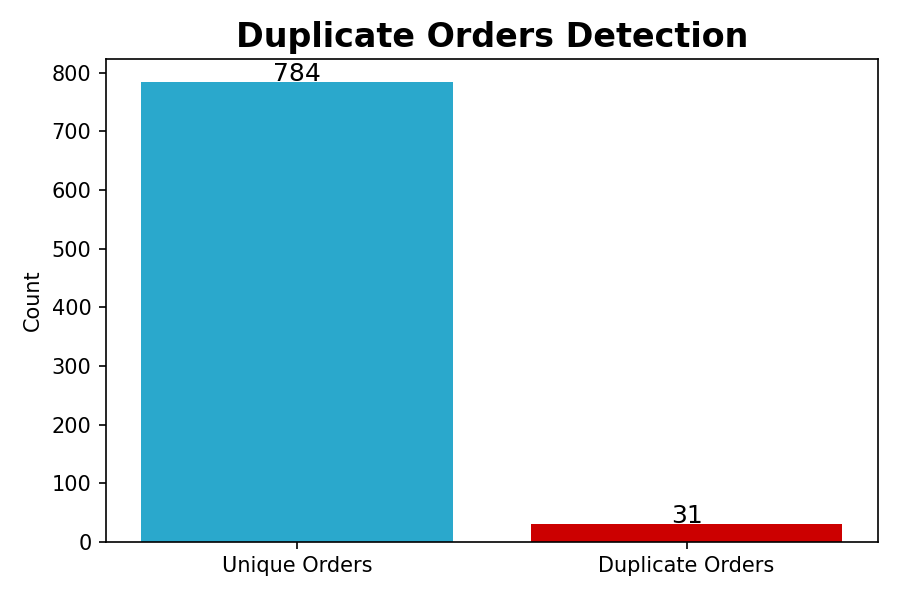
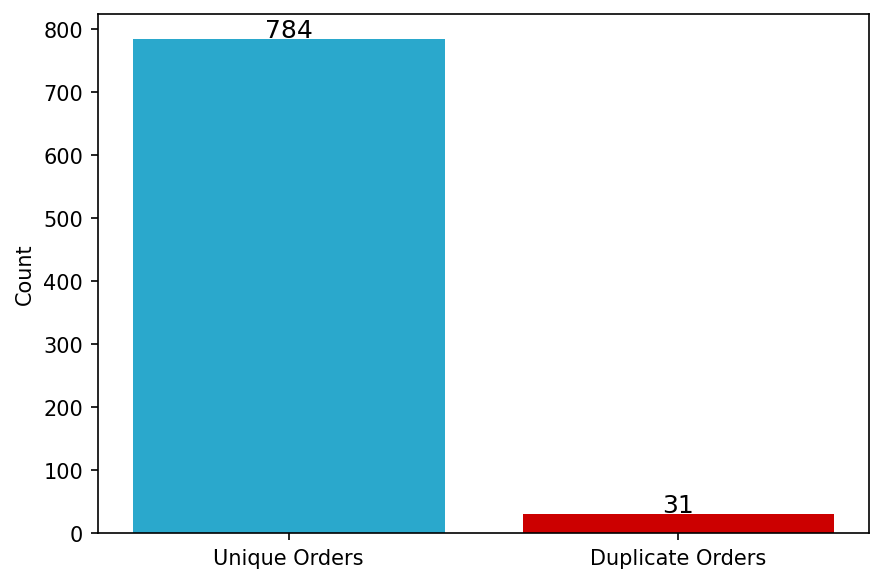
main.py optimalizovane obrazky v kazdej funkcii - odstraneny nadpis z obrazkov - odstraneny white border z obrazkov - fix velkost grafov pre web - zakomentovany riadok na vyrobu legendy do obrazku 18, riesenie cez html

Changed region(s): [[0.0, 0.0, 0.9774, 0.988], [0.0305, 0.0309, 0.1222, 0.0617]]

diff --git a/main.py b/main.py
@@ -29,272 +29,273 @@ print(f"✓ Found {len(dupes)} duplicate orders")
 dupes.to_csv("cleaned_data/01_duplicates.csv", index=False)
 fig, ax = plt.subplots(figsize=(6, 4))
 ax.bar(["Unique Orders", "Duplicate Orders"], [len(orders) - len(dupes), len(dupes)], color=["#2aa8cc", "#cc0000"])
-ax.set_title("Duplicate Orders Detection", fontsize=16, fontweight="bold")
+# ax.set_title("Duplicate Orders Detection", fontsize=16, fontweight="bold")
 ax.set_ylabel("Count")
 for i, val in enumerate([len(orders) - len(dupes), len(dupes)]):
     ax.text(i, val + 2, str(val), ha="center", fontsize=12)
 plt.tight_layout()
-plt.savefig("cleaned_data/01_duplicates.png", dpi=150)
+plt.savefig("cleaned_data/01_duplicates.png", dpi=150, bbox_inches="tight")
 plt.close()
 df = df.drop_duplicates(subset=["date", "product_id", "country_id", "revenue"])
 print("✓ 01_duplicates.png")
 
 # === 2. REVENUE BY COUNTRY ===
 rev_country = df.groupby("country_name")["revenue"].sum().sort_values(ascending=True)
-fig, ax = plt.subplots(figsize=(10, 6))
+fig, ax = plt.subplots(figsize=(9, 5))
 bars = ax.barh(rev_country.index, rev_country.values, color="#2aa8cc")
-ax.set_title("Revenue by Country", fontsize=16, fontweight="bold")
+# # ax.set_title("Revenue by Country", fontsize=16, fontweight="bold")
 ax.set_xlabel("Total Revenue (EUR)")
 for bar, val in zip(bars, rev_country.values):
     ax.text(val + 500, bar.get_y() + bar.get_height()/2, f"€{val:,.0f}", va="center", fontsize=9)
 plt.tight_layout()
-plt.savefig("cleaned_data/02_revenue_by_country.png", dpi=150)
+plt.savefig("cleaned_data/02_revenue_by_country.png", dpi=150, bbox_inches="tight")
 plt.close()
 print("✓ 02_revenue_by_country.png")
 
 # === 3. TOP PRODUCTS ===
 top_products = df.groupby("name")["revenue"].sum().sort_values(ascending=False).head(10)
-fig, ax = plt.subplots(figsize=(12, 6))
+fig, ax = plt.subplots(figsize=(10, 5))
 bars = ax.bar(range(len(top_products)), top_products.values, color="#0d3b47")
 ax.set_xticks(range(len(top_products)))
 ax.set_xticklabels(top_products.index, rotation=30, ha="right", fontsize=9)
-ax.set_title("Top 10 Products by Revenue", fontsize=16, fontweight="bold")
+# ax.set_title("Top 10 Products by Revenue", fontsize=16, fontweight="bold")
 ax.set_ylabel("Total Revenue (EUR)")
 for bar, val in zip(bars, top_products.values):
     ax.text(bar.get_x() + bar.get_width()/2, bar.get_height() + 200, f"€{val:,.0f}", ha="center", fontsize=8)
 plt.tight_layout()
-plt.savefig("cleaned_data/03_top_products.png", dpi=150)
+plt.savefig("cleaned_data/03_top_products.png", dpi=150, bbox_inches="tight")
 plt.close()
 print("✓ 03_top_products.png")
 
 # === 4. LOW MARGIN PRODUCTS ===
 low_margin = df.groupby("name")["margin_pct"].mean().sort_values().head(10)
-fig, ax = plt.subplots(figsize=(12, 6))
+fig, ax = plt.subplots(figsize=(10, 5))
 bars = ax.bar(range(len(low_margin)), low_margin.values, color="#cc0000")
 ax.set_xticks(range(len(low_margin)))
 ax.set_xticklabels(low_margin.index, rotation=30, ha="right", fontsize=9)
-ax.set_title("Low Margin Products (Bottom 10)", fontsize=16, fontweight="bold")
+# ax.set_title("Low Margin Products (Bottom 10)", fontsize=16, fontweight="bold")
 ax.set_ylabel("Average Margin (%)")
 ax.axhline(y=low_margin.mean(), color="black", linestyle="--", label="Average")
 for bar, val in zip(bars, low_margin.values):
     ax.text(bar.get_x() + bar.get_width()/2, bar.get_height() + 0.2, f"{val:.1f}%", ha="center", fontsize=8)
 plt.tight_layout()
-plt.savefig("cleaned_data/04_low_margin_products.png", dpi=150)
+plt.savefig("cleaned_data/04_low_margin_products.png", dpi=150, bbox_inches="tight")
 plt.close()
 print("✓ 04_low_margin_products.png")
 
 # === 5. RETURN RATE BY COUNTRY ===
 return_country = df.groupby("country_name")["returned"].mean() * 100
 return_country = return_country.sort_values(ascending=True)
-fig, ax = plt.subplots(figsize=(10, 6))
+fig, ax = plt.subplots(figsize=(9, 5))
 bars = ax.barh(return_country.index, return_country.values, color="#e67e22")
-ax.set_title("Return Rate by Country (%)", fontsize=16, fontweight="bold")
+# ax.set_title("Return Rate by Country (%)", fontsize=16, fontweight="bold")
 ax.set_xlabel("Return Rate (%)")
 ax.axvline(x=return_country.mean(), color="red", linestyle="--", label=f"Avg: {return_country.mean():.1f}%")
 ax.legend()
 for bar, val in zip(bars, return_country.values):
     ax.text(val + 0.1, bar.get_y() + bar.get_height()/2, f"{val:.1f}%", va="center", fontsize=9)
 plt.tight_layout()
-plt.savefig("cleaned_data/05_return_rate_by_country.png", dpi=150)
+plt.savefig("cleaned_data/05_return_rate_by_country.png", dpi=150, bbox_inches="tight")
 plt.close()
 print("✓ 05_return_rate_by_country.png")
 
 # === 6. RETURN RATE BY PRODUCT ===
 return_product = df.groupby("name")["returned"].mean() * 100
 return_product = return_product.sort_values(ascending=False).head(10)
-fig, ax = plt.subplots(figsize=(12, 6))
+fig, ax = plt.subplots(figsize=(10, 5))
 bars = ax.bar(range(len(return_product)), return_product.values, color="#e74c3c")
 ax.set_xticks(range(len(return_product)))
 ax.set_xticklabels(return_product.index, rotation=30, ha="right", fontsize=9)
-ax.set_title("Top 10 Products by Return Rate", fontsize=16, fontweight="bold")
+# ax.set_title("Top 10 Products by Return Rate", fontsize=16, fontweight="bold")
 ax.set_ylabel("Return Rate (%)")
 for bar, val in zip(bars, return_product.values):
     ax.text(bar.get_x() + bar.get_width()/2, bar.get_height() + 0.2, f"{val:.1f}%", ha="center", fontsize=8)
 plt.tight_layout()
-plt.savefig("cleaned_data/06_return_rate_by_product.png", dpi=150)
+plt.savefig("cleaned_data/06_return_rate_by_product.png", dpi=150, bbox_inches="tight")
 plt.close()
 print("✓ 06_return_rate_by_product.png")
 
 # === 7. MONTHLY TREND ===
 monthly = df.groupby("month")["revenue"].sum()
-fig, ax = plt.subplots(figsize=(12, 6))
+fig, ax = plt.subplots(figsize=(10, 5))
 ax.plot(monthly.index.astype(str), monthly.values, marker="o", color="#2aa8cc", linewidth=2, markersize=6)
 ax.fill_between(monthly.index.astype(str), monthly.values, alpha=0.2, color="#2aa8cc")
-ax.set_title("Monthly Revenue Trend 2024", fontsize=16, fontweight="bold")
+# ax.set_title("Monthly Revenue Trend 2024", fontsize=16, fontweight="bold")
 ax.set_ylabel("Revenue (EUR)")
 ax.set_xlabel("Month")
 plt.xticks(rotation=45)
 for i, val in enumerate(monthly.values):
     ax.text(i, val + 500, f"€{val:,.0f}", ha="center", fontsize=7)
 plt.tight_layout()
-plt.savefig("cleaned_data/07_monthly_trend.png", dpi=150)
+plt.savefig("cleaned_data/07_monthly_trend.png", dpi=150, bbox_inches="tight")
 plt.close()
 print("✓ 07_monthly_trend.png")
 
 # === 8. REVENUE BY MARKETPLACE ===
 rev_market = df.groupby("marketplace")["revenue"].sum().sort_values(ascending=False)
-fig, ax = plt.subplots(figsize=(8, 6))
+fig, ax = plt.subplots(figsize=(6, 5))
 colors = ["#FF9900", "#0057e7", "#00A650"]
 wedges, texts, autotexts = ax.pie(rev_market.values, labels=rev_market.index, autopct="%1.1f%%", colors=colors, startangle=90)
-ax.set_title("Revenue by Marketplace", fontsize=16, fontweight="bold")
+# ax.set_title("Revenue by Marketplace", fontsize=16, fontweight="bold")
 plt.tight_layout()
-plt.savefig("cleaned_data/08_revenue_by_marketplace.png", dpi=150)
+plt.savefig("cleaned_data/08_revenue_by_marketplace.png", dpi=150, bbox_inches="tight")
 plt.close()
 print("✓ 08_revenue_by_marketplace.png")
 
 # === 9. REVENUE BY CATEGORY ===
 rev_cat = df.groupby("category")["revenue"].sum().sort_values(ascending=True)
-fig, ax = plt.subplots(figsize=(10, 6))
+fig, ax = plt.subplots(figsize=(9, 5))
 bars = ax.barh(rev_cat.index, rev_cat.values, color="#1b4332")
-ax.set_title("Revenue by Category", fontsize=16, fontweight="bold")
+# ax.set_title("Revenue by Category", fontsize=16, fontweight="bold")
 ax.set_xlabel("Total Revenue (EUR)")
 for bar, val in zip(bars, rev_cat.values):
     ax.text(val + 200, bar.get_y() + bar.get_height()/2, f"€{val:,.0f}", va="center", fontsize=9)
 plt.tight_layout()
-plt.savefig("cleaned_data/09_revenue_by_category.png", dpi=150)
+plt.savefig("cleaned_data/09_revenue_by_category.png", dpi=150, bbox_inches="tight")
 plt.close()
 print("✓ 09_revenue_by_category.png")
 
 # === 10. MARGIN BY CATEGORY ===
 margin_cat = df.groupby("category")["margin_pct"].mean().sort_values(ascending=True)
-fig, ax = plt.subplots(figsize=(10, 6))
+fig, ax = plt.subplots(figsize=(9, 5))
 bars = ax.barh(margin_cat.index, margin_cat.values, color="#145d72")
-ax.set_title("Average Margin by Category (%)", fontsize=16, fontweight="bold")
+# ax.set_title("Average Margin by Category (%)", fontsize=16, fontweight="bold")
 ax.set_xlabel("Average Margin (%)")
 for bar, val in zip(bars, margin_cat.values):
     ax.text(val + 0.2, bar.get_y() + bar.get_height()/2, f"{val:.1f}%", va="center", fontsize=9)
 plt.tight_layout()
-plt.savefig("cleaned_data/10_margin_by_category.png", dpi=150)
+plt.savefig("cleaned_data/10_margin_by_category.png", dpi=150, bbox_inches="tight")
 plt.close()
 print("✓ 10_margin_by_category.png")
 
 # === 11. PROFIT BY COUNTRY ===
 profit_country = df.groupby("country_name")["profit"].sum().sort_values(ascending=True)
-fig, ax = plt.subplots(figsize=(10, 6))
+fig, ax = plt.subplots(figsize=(9, 5))
 bars = ax.barh(profit_country.index, profit_country.values, color="#0d3b47")
-ax.set_title("Profit by Country", fontsize=16, fontweight="bold")
+# ax.set_title("Profit by Country", fontsize=16, fontweight="bold")
 ax.set_xlabel("Total Profit (EUR)")
 for bar, val in zip(bars, profit_country.values):
     ax.text(val + 100, bar.get_y() + bar.get_height()/2, f"€{val:,.0f}", va="center", fontsize=9)
 plt.tight_layout()
-plt.savefig("cleaned_data/11_profit_by_country.png", dpi=150)
+plt.savefig("cleaned_data/11_profit_by_country.png", dpi=150, bbox_inches="tight")
 plt.close()
 print("✓ 11_profit_by_country.png")
 
 # === 12. AVG ORDER VALUE BY COUNTRY ===
 aov_country = df.groupby("country_name")["revenue"].mean().sort_values(ascending=True)
-fig, ax = plt.subplots(figsize=(10, 6))
+fig, ax = plt.subplots(figsize=(9, 5))
 bars = ax.barh(aov_country.index, aov_country.values, color="#2c7873")
-ax.set_title("Average Order Value by Country", fontsize=16, fontweight="bold")
+# ax.set_title("Average Order Value by Country", fontsize=16, fontweight="bold")
 ax.set_xlabel("Average Order Value (EUR)")
 for bar, val in zip(bars, aov_country.values):
     ax.text(val + 2, bar.get_y() + bar.get_height()/2, f"€{val:.2f}", va="center", fontsize=9)
 plt.tight_layout()
-plt.savefig("cleaned_data/12_avg_order_value_by_country.png", dpi=150)
+plt.savefig("cleaned_data/12_avg_order_value_by_country.png", dpi=150, bbox_inches="tight")
 plt.close()
 print("✓ 12_avg_order_value_by_country.png")
 
 # === 13. ORDERS BY COUNTRY ===
 orders_country = df.groupby("country_name")["order_id"].count().sort_values(ascending=True)
-fig, ax = plt.subplots(figsize=(10, 6))
+fig, ax = plt.subplots(figsize=(9, 5))
 bars = ax.barh(orders_country.index, orders_country.values, color="#2aa8cc")
-ax.set_title("Number of Orders by Country", fontsize=16, fontweight="bold")
+# ax.set_title("Number of Orders by Country", fontsize=16, fontweight="bold")
 ax.set_xlabel("Number of Orders")
 for bar, val in zip(bars, orders_country.values):
     ax.text(val + 1, bar.get_y() + bar.get_height() / 2, str(val), va="center", fontsize=9)
 plt.tight_layout()
-plt.savefig("cleaned_data/13_orders_by_country.png", dpi=150)
+plt.savefig("cleaned_data/13_orders_by_country.png", dpi=150, bbox_inches="tight")
 plt.close()
 print("✓ 13_orders_by_country.png")
 
 # === 14. MONTHLY ORDERS TREND ===
 monthly_orders = df.groupby("month")["order_id"].count()
-fig, ax = plt.subplots(figsize=(12, 6))
+fig, ax = plt.subplots(figsize=(10, 5))
 ax.plot(monthly_orders.index.astype(str), monthly_orders.values, marker="o", color="#e67e22", linewidth=2, markersize=6)
 ax.fill_between(monthly_orders.index.astype(str), monthly_orders.values, alpha=0.2, color="#e67e22")
-ax.set_title("Monthly Orders Trend 2024", fontsize=16, fontweight="bold")
+# ax.set_title("Monthly Orders Trend 2024", fontsize=16, fontweight="bold")
 ax.set_ylabel("Number of Orders")
 ax.set_xlabel("Month")
 plt.xticks(rotation=45)
 for i, val in enumerate(monthly_orders.values):
     ax.text(i, val + 1, str(val), ha="center", fontsize=8)
 plt.tight_layout()
-plt.savefig("cleaned_data/14_monthly_orders_trend.png", dpi=150)
+plt.savefig("cleaned_data/14_monthly_orders_trend.png", dpi=150, bbox_inches="tight")
 plt.close()
 print("✓ 14_monthly_orders_trend.png")
 
 # === 15. UNITS SOLD BY PRODUCT ===
 units_product = df.groupby("name")["quantity"].sum().sort_values(ascending=False).head(10)
-fig, ax = plt.subplots(figsize=(12, 6))
+fig, ax = plt.subplots(figsize=(10, 5))
 bars = ax.bar(range(len(units_product)), units_product.values, color="#1b4332")
 ax.set_xticks(range(len(units_product)))
 ax.set_xticklabels(units_product.index, rotation=30, ha="right", fontsize=9)
-ax.set_title("Top 10 Products by Units Sold", fontsize=16, fontweight="bold")
+# ax.set_title("Top 10 Products by Units Sold", fontsize=16, fontweight="bold")
 ax.set_ylabel("Total Units Sold")
 for bar, val in zip(bars, units_product.values):
     ax.text(bar.get_x() + bar.get_width() / 2, bar.get_height() + 0.5, str(val), ha="center", fontsize=9)
 plt.tight_layout()
-plt.savefig("cleaned_data/15_units_sold_by_product.png", dpi=150)
+plt.savefig("cleaned_data/15_units_sold_by_product.png", dpi=150, bbox_inches="tight")
 plt.close()
 print("✓ 15_units_sold_by_product.png")
 
 # === 16. ORDERS BY MARKETPLACE ===
 orders_market = df.groupby("marketplace")["order_id"].count().sort_values(ascending=False)
-fig, ax = plt.subplots(figsize=(8, 6))
+fig, ax = plt.subplots(figsize=(7, 5))
 colors = ["#FF9900", "#0057e7", "#00A650"]
 bars = ax.bar(orders_market.index, orders_market.values, color=colors)
-ax.set_title("Number of Orders by Marketplace", fontsize=16, fontweight="bold")
+# ax.set_title("Number of Orders by Marketplace", fontsize=16, fontweight="bold")
 ax.set_ylabel("Number of Orders")
 for bar, val in zip(bars, orders_market.values):
     ax.text(bar.get_x() + bar.get_width() / 2, bar.get_height() + 1, str(val), ha="center", fontsize=12,
             fontweight="bold")
 plt.tight_layout()
-plt.savefig("cleaned_data/16_orders_by_marketplace.png", dpi=150)
+plt.savefig("cleaned_data/16_orders_by_marketplace.png", dpi=150, bbox_inches="tight")
 plt.close()
 print("✓ 16_orders_by_marketplace.png")
 
 # === 17. HEATMAP - ORDERS BY MARKETPLACE x COUNTRY ===
 heatmap_data = df.groupby(["country_name", "marketplace"])["order_id"].count().unstack(fill_value=0)
-fig, ax = plt.subplots(figsize=(10, 7))
+fig, ax = plt.subplots(figsize=(9, 6))
 im = ax.imshow(heatmap_data.values, cmap="YlOrRd", aspect="auto")
 ax.set_xticks(range(len(heatmap_data.columns)))
 ax.set_xticklabels(heatmap_data.columns, fontsize=11)
 ax.set_yticks(range(len(heatmap_data.index)))
 ax.set_yticklabels(heatmap_data.index, fontsize=10)
-ax.set_title("Orders by Marketplace × Country", fontsize=16, fontweight="bold")
+# ax.set_title("Orders by Marketplace × Country", fontsize=16, fontweight="bold")
 plt.colorbar(im, ax=ax, label="Number of Orders")
 for i in range(len(heatmap_data.index)):
     for j in range(len(heatmap_data.columns)):
         ax.text(j, i, str(heatmap_data.values[i, j]), ha="center", va="center", fontsize=10, fontweight="bold")
 plt.tight_layout()
-plt.savefig("cleaned_data/17_heatmap_marketplace_country.png", dpi=150)
+plt.savefig("cleaned_data/17_heatmap_marketplace_country.png", dpi=150, bbox_inches="tight")
 plt.close()
 print("✓ 17_heatmap_marketplace_country.png")
 
 # === 18. TOP CATEGORY BY COUNTRY ===
 cat_country = df.groupby(["country_name", "category"])["revenue"].sum().unstack(fill_value=0)
-fig, ax = plt.subplots(figsize=(12, 7))
+fig, ax = plt.subplots(figsize=(11, 6))
 cat_country.plot(kind="bar", ax=ax, colormap="tab10")
-ax.set_title("Revenue by Category per Country", fontsize=16, fontweight="bold")
+# ax.set_title("Revenue by Category per Country", fontsize=16, fontweight="bold")
+ax.get_legend().remove()
 ax.set_ylabel("Revenue (EUR)")
 ax.set_xlabel("")
 plt.xticks(rotation=30, ha="right")
-ax.legend(title="Category", bbox_to_anchor=(1.01, 1), loc="upper left", fontsize=8)
+# ax.legend(title="Category", bbox_to_anchor=(1.01, 1), loc="upper left", fontsize=8)
 plt.tight_layout()
-plt.savefig("cleaned_data/18_category_by_country.png", dpi=150)
+plt.savefig("cleaned_data/18_category_by_country.png", dpi=150, bbox_inches="tight")
 plt.close()
 print("✓ 18_category_by_country.png")
 
 # === 19. UNITS SOLD BY CATEGORY ===
 units_cat = df.groupby("category")["quantity"].sum().sort_values(ascending=True)
-fig, ax = plt.subplots(figsize=(10, 6))
+fig, ax = plt.subplots(figsize=(9, 5))
 bars = ax.barh(units_cat.index, units_cat.values, color="#145d72")
-ax.set_title("Total Units Sold by Category", fontsize=16, fontweight="bold")
+# ax.set_title("Total Units Sold by Category", fontsize=16, fontweight="bold")
 ax.set_xlabel("Total Units Sold")
 for bar, val in zip(bars, units_cat.values):
     ax.text(val + 1, bar.get_y() + bar.get_height() / 2, str(val), va="center", fontsize=9)
 plt.tight_layout()
-plt.savefig("cleaned_data/19_units_sold_by_category.png", dpi=150)
+plt.savefig("cleaned_data/19_units_sold_by_category.png", dpi=150, bbox_inches="tight")
 plt.close()
 print("✓ 19_units_sold_by_category.png")
 
@@ -312,7 +313,7 @@ summary.to_csv("cleaned_data/summary.csv")
 print("✓ summary.csv")
 
 # Summary Graf
-fig, ax1 = plt.subplots(figsize=(14, 7))
+fig, ax1 = plt.subplots(figsize=(10, 6))
 x = range(len(summary.index))
 width = 0.3
 
@@ -330,7 +331,7 @@ ax2.set_ylabel("Return Rate (%)")
 ax1.legend(loc="upper left")
 ax2.legend(loc="upper right")
 plt.tight_layout()
-plt.savefig("cleaned_data/20_summary_overview.png", dpi=150)
+plt.savefig("cleaned_data/20_summary_overview.png", dpi=150, bbox_inches="tight")
 plt.close()
 print("✓ 20_summary_overview.png")
 
